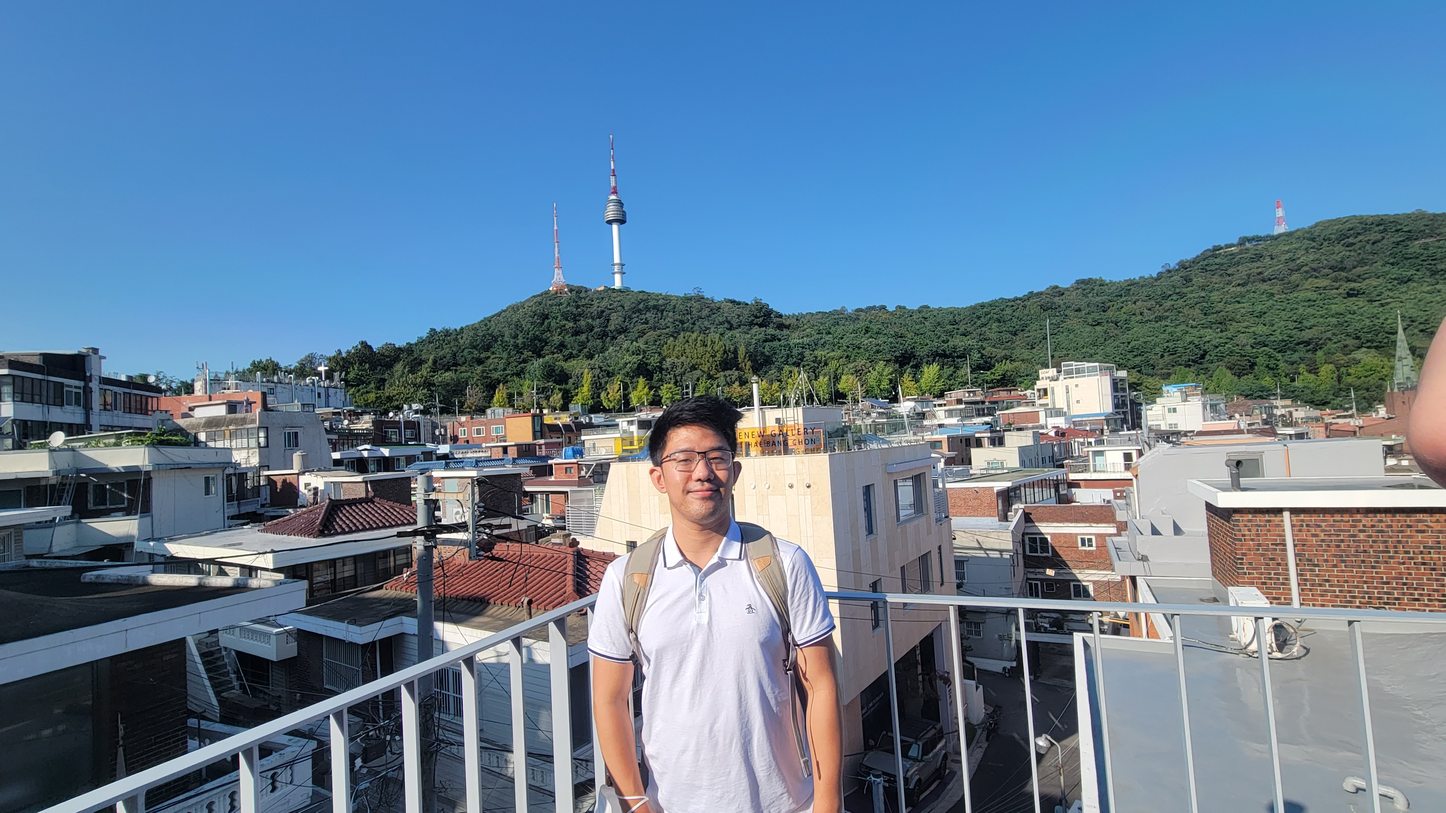
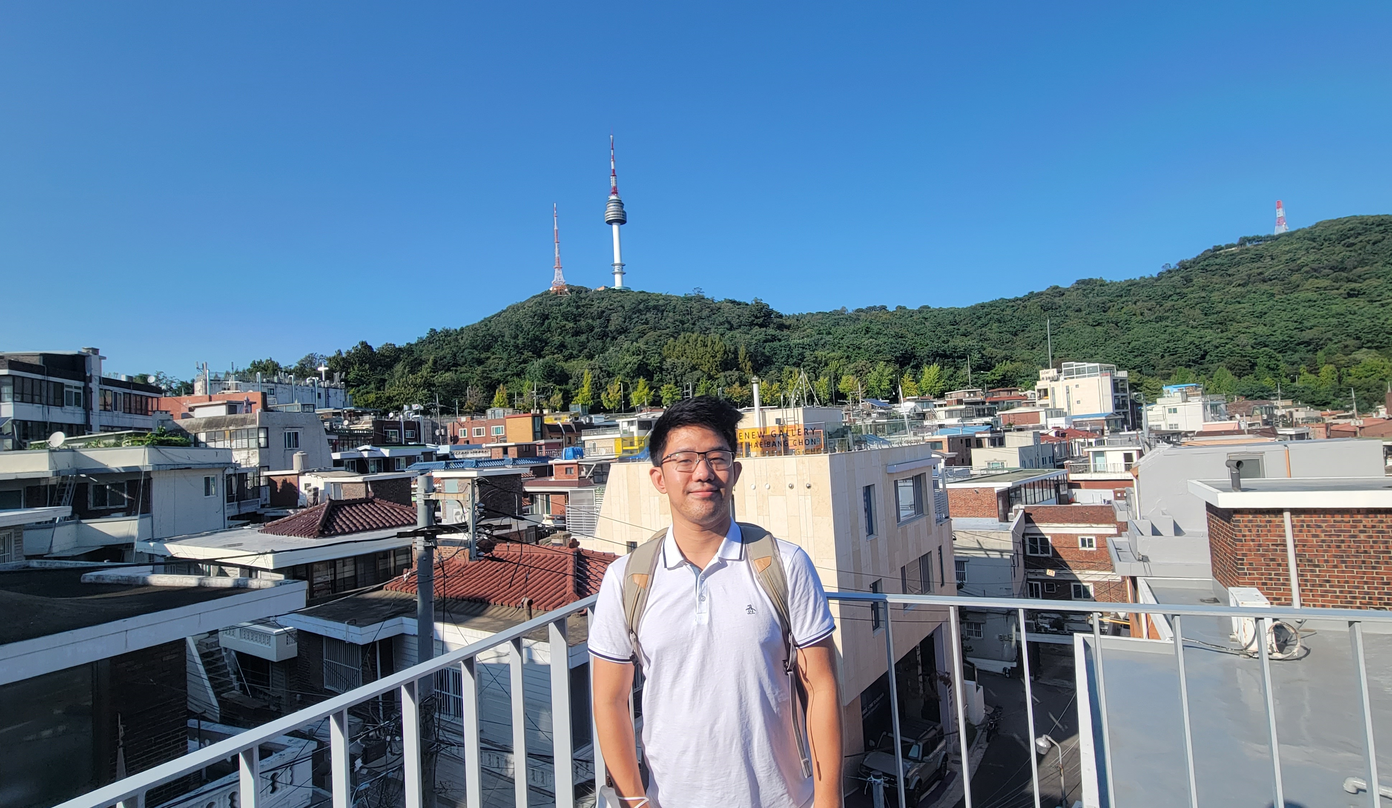
Formatted About Me section

diff --git a/index.html b/index.html
@@ -20,25 +20,31 @@
         </header>
 
         <main>
-            <figure>
+
+            <hr class="divider">
+
+            <figure class="AboutMe" id="AboutMe">
                 <section class="photo">
-                    <img src="assets\content\photo2.png" alt="picture of myself in Seoul">
+                    <img src="assets\content\self.jpg" alt="picture of myself in Seoul">
                 </section>
-                <section class="AboutMe" id="AboutMe">
+                <section>
                     <h2>About Me</h2>
                     <p>Hello! My name is Peter Kim. I've had an interest in computers for as long as I can remember. Soon enough this grew into an interest in programming and web design. I have experience in various languages such as HTML, Java, Scheme, and Python. I am constantly looking to improve and expand my skillset.</p>
                 </section>
             </figure>
+
             <section class="Projects" id="Projects">
                 <h2>Projects</h2>
                 <p>Filler Text</p>
             </section>
+
+            <hr class="divider">
             <footer class="Contact" id="Contact">
                 <h2>Contact Info</h2>
                 <ul>
                     <li><a href="https://github.com/PeterKim89">GitHub</a></li>
                     <li><a href="https://www.linkedin.com/in/peter-kim89/">LinkedIn</a></li>
-                    <li><p>Email: Peter.Kim@uconn.edu</p></li>
+                    <li><p>Peter.Kim@uconn.edu</p></li>
                 </ul>
             </footer>
         </main>

diff --git a/assets/css/style.css b/assets/css/style.css
@@ -7,14 +7,15 @@ body {
     flex-direction: column;
     font-family:'Segoe UI', Tahoma, Geneva, Verdana, sans-serif;
     font-size: 20px;
+    background-color: rgb(252, 240, 223);
 }
 
 header {
     display: inline-flex;
     justify-content: space-between;
     padding-top: 15px;
-    padding-bottom: 15px;
-    background-color: blanchedalmond;
+    padding-bottom: 30px;
+    
 }
 
 header h1 {
@@ -34,32 +35,55 @@ nav a {
     padding: 15px;
 }
 
-h2 {
-    font-size: 30px;
+.divider {
+    border: none;
+    background-color: darkblue;
+    height: 10px;
+    margin-top: 20px;
+    margin-bottom: 20px;
+
 }
 
-.photo img{
-    max-width: 1000px;
-    height: 50%;
-    justify-content: flex-start;
+h2 {
+    font-size: 30px;
 }
 
 figure {
     display: inline-flex;
 }
 
+.photo img{
+    max-height: 500px;
+    width: auto;
+    justify-content: flex-start;
+    padding-left: 100px;
+    padding-right: 100px;
+}
+
 .AboutMe{
-    padding-right: 10%;
+    flex-wrap: wrap;
+    padding-right: 100px;
+    padding-left: 100px;
+    padding-top: 10px;
     text-align: center;
+    justify-content: center;
+
 }
 
 .AboutMe h2{
-    /* justify-content: flex-end; */
+    /* flex-direction: column; */
     margin-top: 15px;
     margin-bottom: 15px;
-   
 }
 
 .AboutMe p{
-    /* padding-left: 50%; */
+    font-size: 24px;
+}
+
+.projects {
+
+}
+
+footer {
+    
 }
